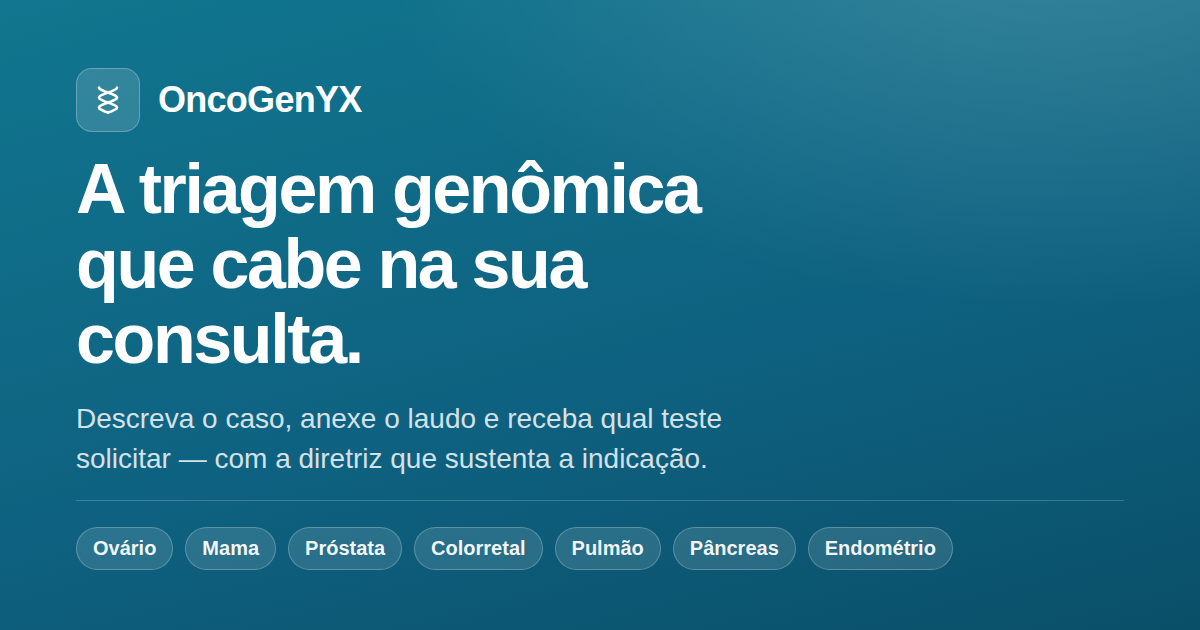
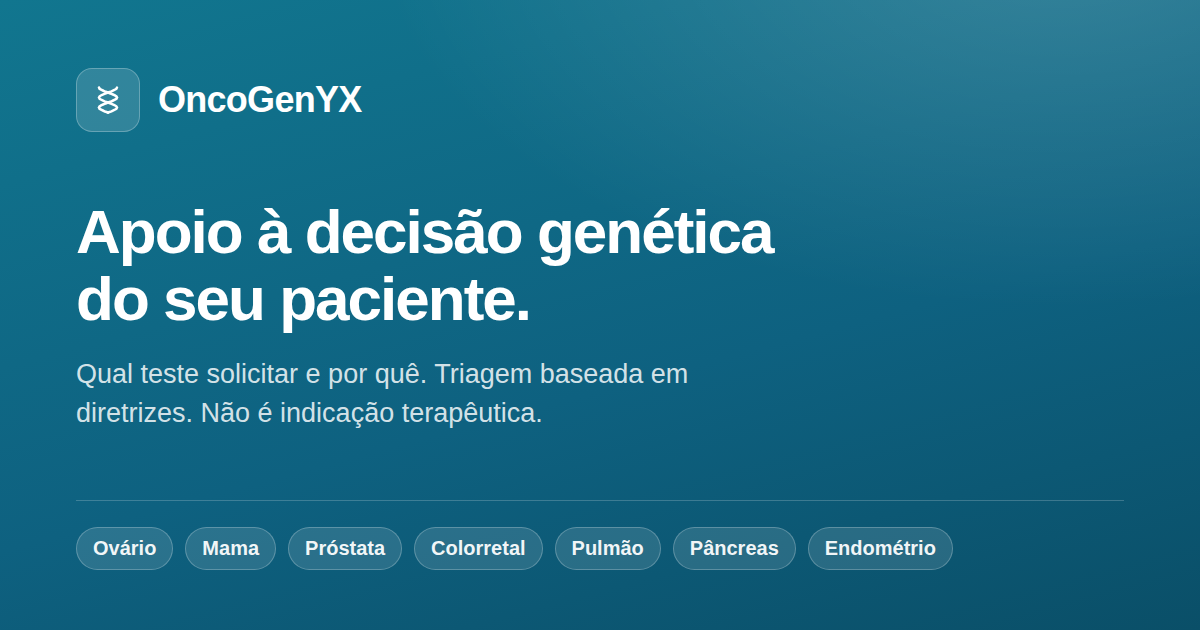
O cartao do link passa a falar como a plataforma fala
O texto que eu tinha posto era o mais publicitario do produto inteiro.
"A triagem genomica que cabe na sua consulta" e um slogan — a unica frase
de marketing que existe no app, na tela de login — e eu fui buscar
justamente ela. A linha de apoio era instrucao, escrita para quem ja
esta dentro; num cartao de link vira anuncio.

A voz da plataforma e outra, e esta escrita em todo lugar menos ali:
"O subtipo oncologico e identificado sozinho." / "Confira e corrija. A
triagem usa exatamente o que estiver escrito aqui." / "A plataforma
direciona ao portal oficial, nunca processa o pedido." Frase curta,
declarativa, sem adjetivo de elogio, e quase sempre dizendo onde a
ferramenta para.

Agora:

  Apoio a decisao genetica do seu paciente.
  Qual teste solicitar e por que. Triagem baseada em diretrizes. Nao e
  indicacao terapeutica.

Tres frases curtas, sem travessao. O titulo e o posicionamento que o
dono quis — apoio a decisao, com o paciente dele no centro, e "apoio a
decisao clinica" e termo estabelecido em software medico, o que nos
coloca na prateleira certa. A linha de apoio devolve o limite, que e a
assinatura da plataforma: declarar o que NAO se e, num cartao de
divulgacao, e o que nenhum produto inflado faz.

O texto passa a morar num lugar so: test/gerar-cartao.js exporta as
constantes e desenha a imagem. Antes ele existia em dois sitios que
ninguem olha ao mesmo tempo — desenhado dentro de um PNG e escrito nas
[…]

Changed region(s): [[0.0617, 0.2413, 0.6475, 0.754]]

diff --git a/server/test/gerar-cartao.js b/server/test/gerar-cartao.js
@@ -1,0 +1,81 @@
+// Gera a imagem de pré-visualização do link (public/compartilhar.png).
+//
+// §79. O texto do cartão mora AQUI, num lugar só. Ele aparece em dois sítios
+// que ninguém olha ao mesmo tempo: desenhado na imagem, e escrito nas
+// marcações og: do index.html. Mantidos à mão, divergem — e a divergência é
+// invisível, porque a imagem é um arquivo binário e as marcações são texto.
+// A bateria do aplicativo lê estas constantes e exige que as marcações digam
+// o mesmo; mudar o texto sem gerar a imagem de novo reprova.
+//
+// Rodar:  node test/gerar-cartao.js
+'use strict';
+const fs = require('fs');
+const path = require('path');
+const { execFileSync } = require('child_process');
+
+const TEXTO = {
+  titulo: 'Apoio à decisão genética do seu paciente.',
+  apoio: 'Qual teste solicitar e por quê. Triagem baseada em diretrizes. Não é indicação terapêutica.',
+  // Alternativa textual da imagem, para quem usa leitor de tela.
+  alt: 'OncoGenYX. Apoio à decisão genética do seu paciente. Cobre ovário, mama, próstata, colorretal, pulmão, pâncreas e endométrio.',
+};
+
+const COBERTOS = ['Ovário', 'Mama', 'Próstata', 'Colorretal', 'Pulmão', 'Pâncreas', 'Endométrio'];
+
+// A mesma hélice da marca, do index.html.
+const HELICE = '<svg class="helice" viewBox="0 0 24 24" aria-hidden="true"><path d="M17.4 4.5L17.0 5.3L15.8 6.0L14.1 6.8L12.0 7.5L9.9 8.3L8.2 9.0L7.0 9.8L6.6 10.5L7.0 11.3L8.2 12.0L9.9 12.8L12.0 13.5L14.1 14.3L15.8 15.0L17.0 15.8L17.4 16.5L17.0 17.3L15.8 18.0L14.1 18.8L12.0 19.5"/><path class="atras" d="M6.6 4.5L7.0 5.3L8.2 6.0L9.9 6.8L12.0 7.5L14.1 8.3L15.8 9.0L17.0 9.8L17.4 10.5L17.0 11.3L15.8 12.0L14.1 12.8L12.0 13.5L9.9 14.3L8.2 15.0L7.0 15.8L6.6 16.5L7.0 17.3L8.2 18.0L9.9 18.8L12.0 19.5"/><path d="M6.6 4.5L7.0 5.3L8.2 6.0L9.9 6.8L12.0 7.5L14.1 8.3L15.8 9.0L17.0 9.8L17.4 10.5L17.0 11.3L15.8 12.0L14.1 12.8L12.0 13.5L9.9 14.3L8.2 15.0L7.0 15.8L6.6 16.5L7.0 17.3L8.2 18.0L9.9 18.8L12.0 19.5"/></svg>';
+
+// Sem fonte externa, aqui também: a promessa ao médico é que o material não
+// gera pedido a terceiro, e vale para a imagem do cartão.
+const MOLDE = `<!doctype html><html lang="pt-BR"><head><meta charset="utf-8"/><style>
+:root{--accent:#0e6180}
+*{margin:0;padding:0;box-sizing:border-box}
+html,body{width:1200px;height:630px}
+body{background:linear-gradient(165deg,#11768f 0%,#0e6180 58%,#0a4f68 100%);background-color:var(--accent);color:#fff;
+font-family:-apple-system,BlinkMacSystemFont,"Segoe UI",Roboto,"Helvetica Neue",Arial,sans-serif;
+position:relative;overflow:hidden;display:flex;flex-direction:column;justify-content:space-between;padding:68px 76px 60px}
+body::after{content:'';position:absolute;inset:0;background:radial-gradient(1100px 620px at 88% -12%,rgba(255,255,255,.17),transparent 62%);pointer-events:none}
+.topo{display:flex;align-items:center;gap:18px;position:relative;z-index:1}
+.marca{width:64px;height:64px;border-radius:16px;background:rgba(255,255,255,.14);border:1px solid rgba(255,255,255,.26);display:flex;align-items:center;justify-content:center}
+.marca svg{width:40px;height:40px}
+.helice path{fill:none;stroke:#fff;stroke-width:1.5;stroke-linecap:round}
+.helice path.atras{stroke:rgba(255,255,255,.45)}
+.nome{font-size:36px;font-weight:700;letter-spacing:-.02em}
+.meio{position:relative;z-index:1}
+h1{font-size:62px;line-height:1.08;font-weight:700;letter-spacing:-.032em;max-width:21ch}
+.sub{margin-top:22px;font-size:27px;line-height:1.45;color:rgba(255,255,255,.84);max-width:46ch;font-weight:400}
+.base{position:relative;z-index:1;display:flex;align-items:center;gap:12px;flex-wrap:wrap;padding-top:26px;border-top:1px solid rgba(255,255,255,.2)}
+.selo{font-size:20px;font-weight:600;padding:9px 16px;border-radius:999px;background:rgba(255,255,255,.12);border:1px solid rgba(255,255,255,.24);color:rgba(255,255,255,.95)}
+</style></head><body>
+<div class="topo"><span class="marca">${HELICE}</span><span class="nome">OncoGenYX</span></div>
+<div class="meio"><h1>${TEXTO.titulo}</h1><p class="sub">${TEXTO.apoio}</p></div>
+<div class="base">${COBERTOS.map((t) => `<span class="selo">${t}</span>`).join('')}</div>
+</body></html>`;
+
+function carregarPlaywright() {
+  try { return require('playwright'); } catch { /* instalação global */ }
+  const raiz = execFileSync('npm', ['root', '-g'], { encoding: 'utf8' }).trim();
+  return require(path.join(raiz, 'playwright'));
+}
+
+async function gerar() {
+  const { chromium } = carregarPlaywright();
+  const destino = path.join(__dirname, '..', 'public', 'compartilhar.png');
+  const molde = path.join(require('os').tmpdir(), 'cartao-oncogenyx.html');
+  fs.writeFileSync(molde, MOLDE);
+  const navegador = await chromium.launch({ executablePath: '/opt/pw-browsers/chromium' });
+  const pagina = await navegador.newPage({ viewport: { width: 1200, height: 630 }, deviceScaleFactor: 1 });
+  await pagina.goto('file://' + molde);
+  await pagina.waitForTimeout(300);
+  await pagina.screenshot({ path: destino });
+  await navegador.close();
+  fs.unlinkSync(molde);
+  return destino;
+}
+
+module.exports = { TEXTO, COBERTOS, gerar };
+
+if (require.main === module) {
+  gerar().then((d) => { console.log('cartão gerado em ' + d); process.exit(0); })
+    .catch((e) => { console.error(e); process.exit(1); });
+}

diff --git a/server/public/index.html b/server/public/index.html
@@ -34,16 +34,20 @@
 <meta property="og:site_name" content="OncoGenYX" />
 <meta property="og:locale" content="pt_BR" />
 <meta property="og:url" content="__ORIGEM__/" />
-<meta property="og:title" content="OncoGenYX — Triagem genômica em oncologia" />
-<meta property="og:description" content="Descreva o caso, anexe o laudo e receba qual teste genético solicitar — com a diretriz que sustenta a indicação." />
+<!-- §79. Este texto é o MESMO que está desenhado na imagem, e a fonte dele é
+     test/gerar-cartao.js. Mantidos à mão nos dois lugares, divergiriam sem
+     ninguém notar — a imagem é binária e as marcações são texto, e nunca se
+     olha os dois ao mesmo tempo. A bateria do aplicativo compara. -->
+<meta property="og:title" content="Apoio à decisão genética do seu paciente." />
+<meta property="og:description" content="Qual teste solicitar e por quê. Triagem baseada em diretrizes. Não é indicação terapêutica." />
 <meta property="og:image" content="__ORIGEM__/compartilhar.png" />
 <meta property="og:image:type" content="image/png" />
 <meta property="og:image:width" content="1200" />
 <meta property="og:image:height" content="630" />
-<meta property="og:image:alt" content="OncoGenYX — a triagem genômica que cabe na sua consulta. Cobre ovário, mama, próstata, colorretal, pulmão, pâncreas e endométrio." />
+<meta property="og:image:alt" content="OncoGenYX. Apoio à decisão genética do seu paciente. Cobre ovário, mama, próstata, colorretal, pulmão, pâncreas e endométrio." />
 <meta name="twitter:card" content="summary_large_image" />
-<meta name="twitter:title" content="OncoGenYX — Triagem genômica em oncologia" />
-<meta name="twitter:description" content="Descreva o caso, anexe o laudo e receba qual teste genético solicitar — com a diretriz que sustenta a indicação." />
+<meta name="twitter:title" content="Apoio à decisão genética do seu paciente." />
+<meta name="twitter:description" content="Qual teste solicitar e por quê. Triagem baseada em diretrizes. Não é indicação terapêutica." />
 <meta name="twitter:image" content="__ORIGEM__/compartilhar.png" />
 
 <!-- Instalação na tela de início: abre sem barra de endereço, como aplicativo. -->

diff --git a/server/test/aplicativo.js b/server/test/aplicativo.js
@@ -66,6 +66,24 @@ let falhas=0;const ok=(c,m)=>{console.log((c?'  ✓ ':'  ✗ ')+m);if(!c)falhas+
   ok(/^https?:\/\/[^/]+\/$/.test(String(ogUrl)),`og:url absoluto: ${ogUrl}`);
   ok(/^https?:\/\/[^/]+\/compartilhar\.png$/.test(String(ogImg)),`og:image absoluto: ${ogImg}`);
   ok(!!marcacao('og:title') && !!marcacao('og:description'),'tem título e descrição próprios no cartão');
+
+  /* §79. O MESMO texto em dois lugares que ninguém olha junto: desenhado
+   * dentro da imagem (binária) e escrito nas marcações (texto). Mantidos à
+   * mão, divergem — e a divergência é invisível até alguém mandar o link e
+   * ver um cartão dizendo uma coisa na imagem e outra no título.
+   * test/gerar-cartao.js é a fonte; aqui se exige que as marcações repitam.
+   * Mudar o texto sem gerar a imagem de novo reprova nesta linha. */
+  const cartao=require('/home/user/meu-espaco/server/test/gerar-cartao.js');
+  // Neste arquivo a mensagem é impressa tanto no acerto quanto na falha, então
+  // ela descreve O QUE SE VERIFICA — não o defeito. "og:description diverge do
+  // cartão" com um ✓ na frente diz o contrário do que aconteceu.
+  ok(marcacao('og:title')===cartao.TEXTO.titulo,`og:title repete o título desenhado: "${cartao.TEXTO.titulo}"`);
+  ok(marcacao('og:description')===cartao.TEXTO.apoio,'og:description repete a linha de apoio desenhada no cartão');
+  ok(marcacao('og:image:alt')===cartao.TEXTO.alt,'a alternativa textual da imagem acompanha o cartão');
+  const tw=(n)=>{const m=new RegExp('<meta name="'+n+'" content="([^"]*)"').exec(html);return m?m[1]:null;};
+  ok(tw('twitter:title')===cartao.TEXTO.titulo && tw('twitter:description')===cartao.TEXTO.apoio,
+    'as marcações do Twitter dizem o mesmo que as do Facebook');
+  ok(!/—|–/.test(cartao.TEXTO.apoio),'a linha de apoio segue sem travessão, como o dono pediu');
   ok(/twitter:card" content="summary_large_image/.test(html),'o cartão usa a imagem grande, não a miniatura');
   const img=await fetch(BASE+'/compartilhar.png');
   ok(img.ok && (img.headers.get('content-type')||'').includes('image/png'),`a imagem do cartão existe → ${img.status} ${img.headers.get('content-type')||''}`);
